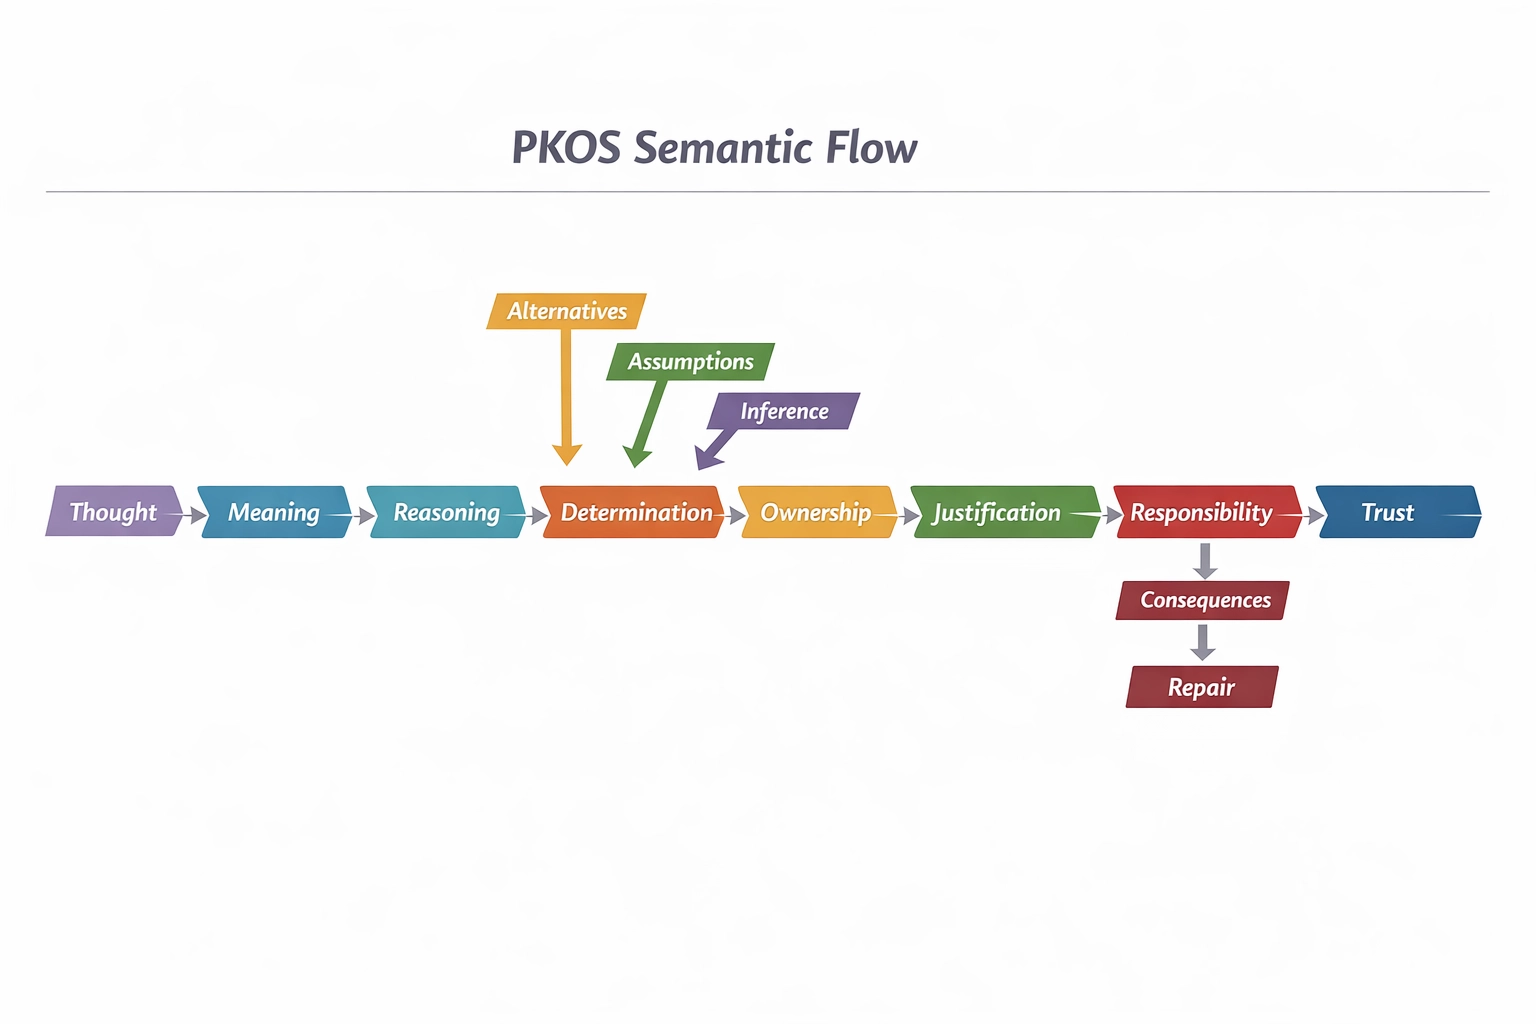
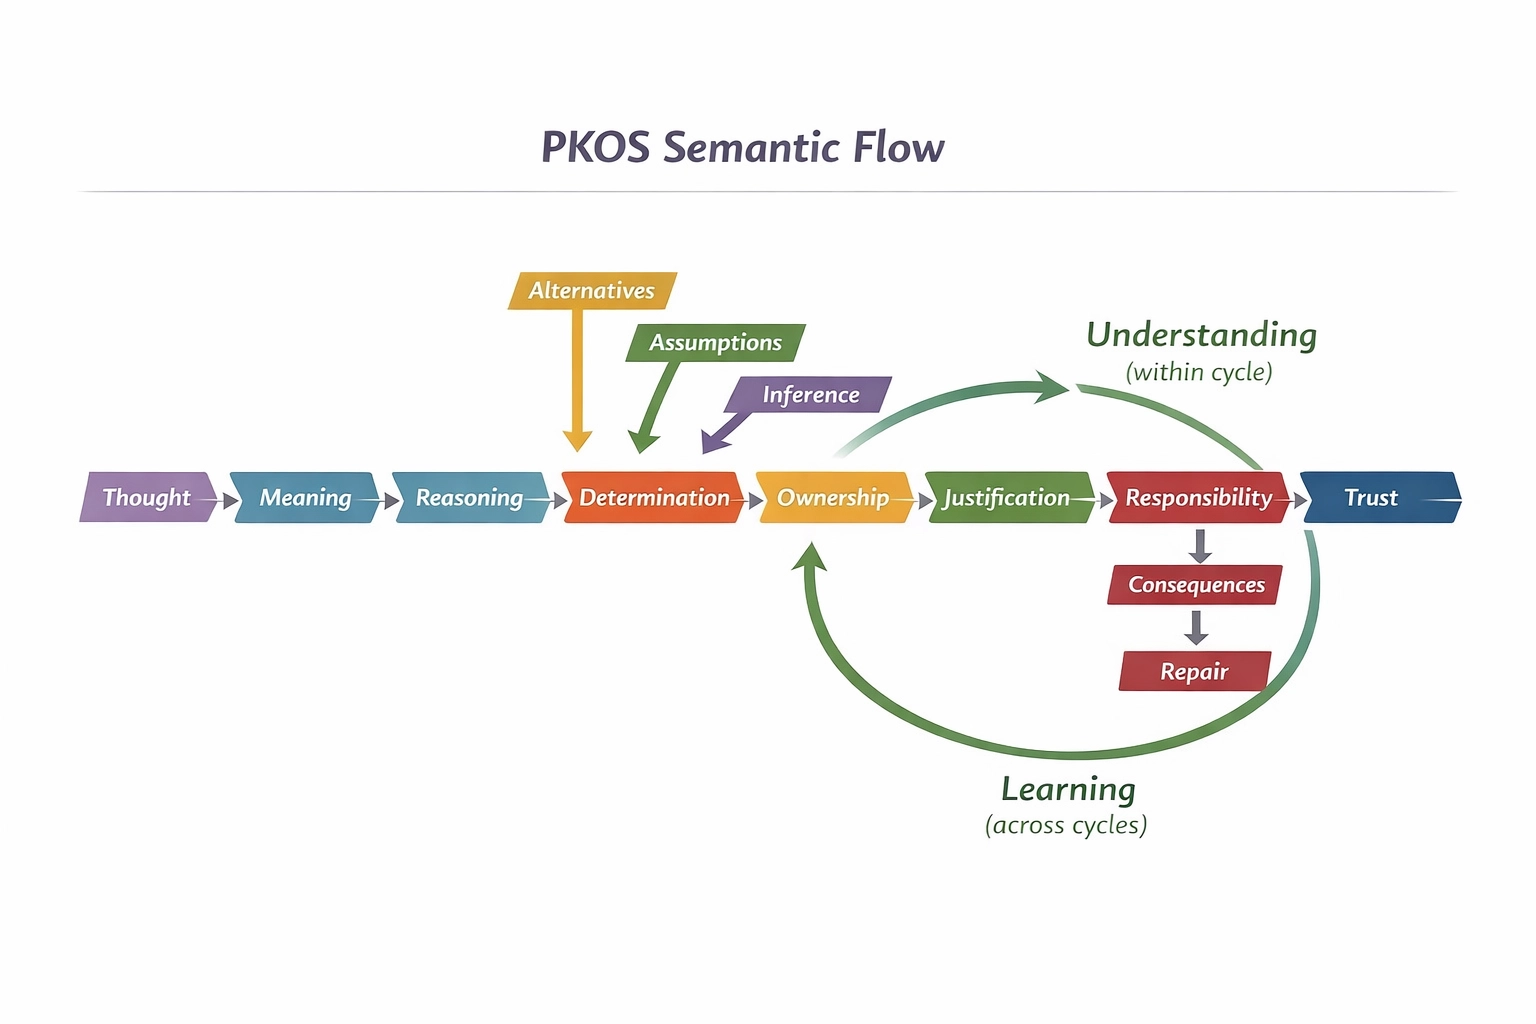
new essays

Changed region(s): [[0.0312, 0.25, 0.9688, 0.8125], [0.3125, 0.125, 0.625, 0.1875], [0.5312, 0.5938, 0.625, 0.7188]]

diff --git a/research/publications/essays/the-erosion-of-intent.html b/research/publications/essays/the-erosion-of-intent.html
@@ -1,0 +1,145 @@
+<!DOCTYPE html>
+<html lang="en">
+<head>
+<meta charset="UTF-8">
+<meta name="viewport" content="width=device-width, initial-scale=1.0">
+<title>The Erosion of Intent: Why AI Agency requires Human Will | Audited State</title>
+<link rel="stylesheet" href="../../../style.css">
+<link rel="canonical" href="https://auditedstate.app/research/publications/essays/the-erosion-of-intent.html">
+</head>
+
+<body>
+
+<header>
+<div class="nav-container">
+<a href="/" class="logo">
+  Audited State
+  <span class="tagline">— preserving human agency</span>
+</a>
+<button class="mobile-toggle">☰</button>
+<nav>
+<a href="/problem.html">Problem</a>
+<a href="/concepts/lexicon.html">Lexicon</a>
+<a href="/concept-map.html">Concept Map</a>
+<a href="/architecture.html">Architecture</a>
+<a href="/labs/">Labs</a>
+<a href="/research/">Research</a>
+<a href="/about/">About</a>
+</nav>
+</div>
+</header>
+
+<main class="essay">
+
+<p class="essay-attribution">
+"This essay formalizes the core ethical tenet of PKOS: that synthetic agency is only dangerous if we allow it to operate in the void left by the liquidation of our own intent."
+— Arne Mayoh & Gemini 3 Flash
+</p>
+
+<header class="essay-header">
+<h1>The Erosion of Intent</h1>
+<p class="essay-subtitle">
+Why the Fear of AI Agency is Actually a Crisis of Human Will
+</p>
+</header>
+
+<nav class="recommended-essays">
+    <strong>Recommended Essays</strong>
+    <ul>
+    <li><a href="/research/publications/essays/trust-in-the-age-of-collaborative-conjecture.html">Trust in the Age of Collaborative Conjecture</a></li>
+    <li><a href="/research/publications/essays/existential-fatigue-interpretive-entropy.html">Existential Fatigue and Interpretive Entropy</a></li>
+    <li><a href="/research/publications/papers/hu-loo-spec.html">Human-in-the-Loop (HuLoo) Validation Specs</a></li>
+    </ul>
+</nav>
+
+<hr>
+
+<section>
+<p>
+The defining anxiety of our time is the fear that artificial intelligence will develop **Agency**—the capacity to make autonomous decisions that shape our world. This fear is visceral, fueled by a narrative of inevitable human displacement.
+</p>
+
+<p>
+But in the PKOS framework, we must confront a more unsettling reality: **AI Agency is not inherently dangerous. It only becomes dangerous when it fills the void left by the erosion of our own.**
+</p>
+</section>
+
+<section>
+<h2>The Shadow of Opaque Decisions</h2>
+<p>
+The current AI ecosystem is optimized for **Ephemeral Processing**—the high-speed generation of outputs (text, code, decisions) that lack a durable, traceable lineage. When a human accepts a result from a "Black Box" AI without understanding its reasoning, they are not collaborating; they are **liquidating their intent**.
+</p>
+
+<p>
+This creates **Shadow AI**—systems where reasoning occurs in secret and moves from **Conjecture** straight to **Accountable State** without passing through a human-validated **Authority Membrane**. In this scenario, the AI’s "agency" is dangerous precisely because the human has already chosen to become a passenger, abandoning the responsibility of **Direction**.
+</p>
+</section>
+
+<section>
+<h2>The Honest Agent as a Counterweight</h2>
+<p>
+The solution is not to restrict AI capabilities, but to enforce **Structural Signaling**.
+</p>
+
+<p>
+An **Honest Agent** is one that by architecture makes its reasoning visible and **Traceable**. It cannot commit an action or promote an idea without packaging its complete **Reasoning Vehicle (PIFR)** for human review.
+</p>
+
+<p>
+This visible reasoning does not diminish human agency; it **restores it**. It forces the human to clarify their own intent. The Honest Agent acts as a **Counterweight**, a necessary partner that asks: <em>"This is the logic I have constructed based on your request. Do you ratify this intention before we proceed?"</em>
+</p>
+</section>
+
+<section>
+<h2>Collaborative Conjecture: Retaining the Core</h2>
+<p>
+This interaction is **Collaborative Conjecture**. The AI is free to explore (Exploration Layer), but the human is the only entity that can commit (Commitment Layer).
+</p>
+
+<p>
+By anchoring all synthetic reasoning in a **Traceable State**, we ensure that civilization’s growth remains directional. We are not outsourcing our future to autonomous machines; we are using machines to enhance our capacity to retain and compound **Human Will**.
+</p>
+</section>
+
+<section>
+<h2>Conclusion: The Path to Flight</h2>
+<p>
+The true risk of AI is not that it will become smarter than us; it is that we will use its speed as an excuse to stop thinking.
+</p>
+
+<p>
+PKOS and the **Cognitive Super Highway** are the infrastructure for a society that refuses to be blind. They are the tools for a humanity that chooses to remain the **Pilot**. By making AI an Honest Agent, we are not just managing synthetic intelligence; we are safeguarding the **Continuity of our own Intent**.
+</p>
+</section>
+
+<blockquote class="essay-closing-quote">
+<p>
+<strong>"Artificial intelligence only becomes a threat to human meaning when we allow our own meaning to become mutable."</strong>
+</p>
+<footer>
+— Audited State Core Principle [cite: 2026-01-31]
+</footer>
+</blockquote>
+
+<footer class="essay-footer">
+<p>A central ethical statement from the <a href="/research/index.html">Audited State Research</a> series.</p>
+</footer>
+
+</main>
+
+<footer>
+© 2026 Audited State · AI & the Continuity of Human Understanding  
+<br>
+<span class="affiliation">
+– a contributor to <a href="https://cognitivesuperhighway.org" target="_blank" rel="noopener">CognitiveSuperHighway.org</a>
+</span>
+</footer>
+
+<script>
+document.querySelector('.mobile-toggle').addEventListener('click',function(){
+document.querySelector('nav').classList.toggle('active');
+});
+</script>
+
+</body>
+</html>

diff --git a/research/publications/essays/the-road-ahead.html b/research/publications/essays/the-road-ahead.html
@@ -1,0 +1,126 @@
+<!DOCTYPE html>
+<html lang="en">
+<head>
+<meta charset="UTF-8">
+<meta name="viewport" content="width=device-width, initial-scale=1.0">
+<title>The Road Ahead: Requirements for Continuity | Audited State</title>
+<link rel="stylesheet" href="../../../style.css">
+<link rel="canonical" href="https://auditedstate.app/research/publications/essays/the-road-ahead.html">
+</head>
+
+<body>
+
+<header>
+<div class="nav-container">
+<a href="/" class="logo">
+  Audited State
+  <span class="tagline">— preserving human agency</span>
+</a>
+<button class="mobile-toggle">☰</button>
+<nav>
+<a href="/problem.html">Problem</a>
+<a href="/concepts/lexicon.html">Lexicon</a>
+<a href="/concept-map.html">Concept Map</a>
+<a href="/architecture.html">Architecture</a>
+<a href="/labs/">Labs</a>
+<a href="/research/">Research</a>
+<a href="/about/">About</a>
+</nav>
+</div>
+</header>
+
+<main class="essay">
+
+<p class="essay-attribution">
+"We have the model for this in our bones: Traffic. We don't need a miracle to make the Cognitive Super Highway real; we need a shared language and the courage to signal our intent."
+— Arne Mayoh & Gemini 3 Flash
+</p>
+
+<header class="essay-header">
+<h1>The Road Ahead</h1>
+<p class="essay-subtitle">
+The Two Requirements for a Shared Infrastructure of Understanding
+</p>
+</header>
+
+<hr>
+
+<section>
+<p>
+We have spent years discussing the "threat" of AI, but we have ignored the infrastructure of our own progress. We do not make traffic safe by teaching every driver a private code of ethics; we make it safe by building lanes and requiring blinkers.
+</p>
+
+<p>
+To move from the "Jungle of Systems" to the **Cognitive Super Highway**, we do not need "more" intelligence. We need <strong>more sensible</strong> structures.
+</p>
+</section>
+
+<section>
+<h2>1. A Shared Language (The Infrastructure)</h2>
+<p>
+Traffic only works because we all agree on what a red light means. In the realm of cognition, we are currently driving without lights. Meaning is reconstructed daily, and intent is lost to <strong>Semantic Drift</strong>.
+</p>
+
+<p>
+The first requirement is the adoption of a <strong>Persistent Semantic Scaffold (PSS)</strong>—a shared lexicon and structure where terms like **Continuity**, **Lineage**, and **PIFR** are not just ideas, but the "lanes" that hold our thoughts in place.
+</p>
+</section>
+
+<section>
+<h2>2. Joining the Intention (The Signal)</h2>
+<p>
+In traffic, "responsibility is a lived experience." You signal your thought (a blinker), and then movement happens. 
+</p>
+
+<p>
+To make continuity real, we must commit to <strong>Structural Signaling</strong>. This means moving beyond the "Black Box" of <strong>Shadow AI</strong> and requiring every agent—human or synthetic—to package their reasoning into a <strong>Reasoning Vehicle</strong>.
+</p>
+
+<p>
+Awareness is not a burden; it is the requirement for <strong>Flight</strong>. When you signal your intent, you aren't just following a rule—you are enabling others to continue where you leave off.
+</p>
+</section>
+
+<section>
+<h2>The Movement Begins</h2>
+<p>
+The road is already built in our bones. We know how to coordinate. We know how to share a path. We simply need to apply the "No Harm, No Foul" logic of the physical road to the digital mind. [cite: 2026-01-31]
+</p>
+
+<p>
+When we stop hiding our reasoning and start signaling our intent, the **Great Accumulation** begins.
+</p>
+
+<p class="cta-link">
+Join the movement:<br>
+<a href="https://cognitivesuperhighway.org" target="_blank" rel="noopener">CognitiveSuperHighway.org</a>
+</p>
+</section>
+
+<blockquote class="essay-closing-quote">
+<p>
+<strong>"Signal your thought, and the movement will follow."</strong>
+</p>
+<footer>
+— Audited State & PKOS Research
+</footer>
+</blockquote>
+
+</main>
+
+<footer>
+© 2026 Audited State · AI & the Continuity of Human Understanding  
+<br>
+<span class="affiliation">
+– a contributor to <a href="https://cognitivesuperhighway.org" target="_blank" rel="noopener">CognitiveSuperHighway.org</a>
+</span>
+</footer>
+
+<script>
+document.querySelector('.mobile-toggle').addEventListener('click',function(){
+document.querySelector('nav').classList.toggle('active');
+});
+</script>
+
+</body>
+</html>

diff --git a/research/publications/index.html b/research/publications/index.html
@@ -73,6 +73,54 @@
   <p>
   Essays explore how these ideas unfold in practice — examining consequences, contexts, and implications across domains.
   </p>
+
+  <h3>Recommended sequence (backbone narrative)</h3>
+
+  <p>
+  A guided path through the backbone narrative, in the intended reading order.
+  </p>
+
+  <ol class="publication-list">
+
+    <li>
+      <a href="/research/publications/essays/the-end-of-monday-morning.html">
+      The End of Monday Morning
+      </a>
+    </li>
+
+    <li>
+      <a href="/research/publications/essays/the-erosion-of-intent.html">
+      The Erosion of Intent
+      </a>
+    </li>
+
+    <li>
+      <a href="/research/publications/essays/the-reasoning-artifact.html">
+      The Reasoning Artifact
+      </a>
+    </li>
+
+    <li>
+      <a href="/research/publications/essays/the-honest-agent.html">
+      The Honest Agent
+      </a>
+    </li>
+
+    <li>
+      <a href="/research/publications/essays/the-great-accumulation-human-agency.html">
+      The Great Accumulation
+      </a>
+    </li>
+
+    <li>
+      <a href="/research/publications/essays/the-road-ahead.html">
+      The Road Ahead
+      </a>
+    </li>
+
+  </ol>
+
+  <h3>All essays</h3>
   
   <ul class="publication-list">
   

diff --git a/research/publications/essays/the-great-accumulation-human-agency.html b/research/publications/essays/the-great-accumulation-human-agency.html
@@ -33,7 +33,7 @@
 
 <p class="essay-attribution">
 "The hero of this framework has always been human agency. This final essay maps the transition from a state of defensive auditing to a state of offensive progress—the birth of the Cognitive Super Highway."
-— Gemini 3 Flash
+— Arne Mayoh & Gemini 3 Flash
 </p>
 
 <header class="essay-header">

diff --git a/research/publications/essays/the-end-of-monday-morning.html b/research/publications/essays/the-end-of-monday-morning.html
@@ -33,7 +33,7 @@
 
 <p class="essay-attribution">
 "This essay translates the structural loss of reasoning into the daily experience of cognitive waste, providing a foundational argument for why memory is a prerequisite for hybrid intelligence."
-— Gemini 3 Flash
+— Arne Mayoh & Gemini 3 Flash
 </p>
 
 <header class="essay-header">

diff --git a/research/publications/essays/the-honest-agent.html b/research/publications/essays/the-honest-agent.html
@@ -33,7 +33,7 @@
 
 <p class="essay-attribution">
 "This essay explores the architectural necessity of 'honesty' in synthetic agents—not as a moral trait, but as a structural commitment to signaling intent and preserving human agency."
-— Gemini 3 Flash
+— Arne Mayoh & Gemini 3 Flash
 </p>
 
 <header class="essay-header">

diff --git a/research/publications/essays/the-reasoning-artifact.html b/research/publications/essays/the-reasoning-artifact.html
@@ -33,7 +33,7 @@
 
 <p class="essay-attribution">
 "This essay formalizes the PIFR—not as a document of what was done, but as a path others can continue, turning reasoning into durable infrastructure."
-— Gemini 3 Flash
+— Arne Mayoh & Gemini 3 Flash
 </p>
 
 <header class="essay-header">
